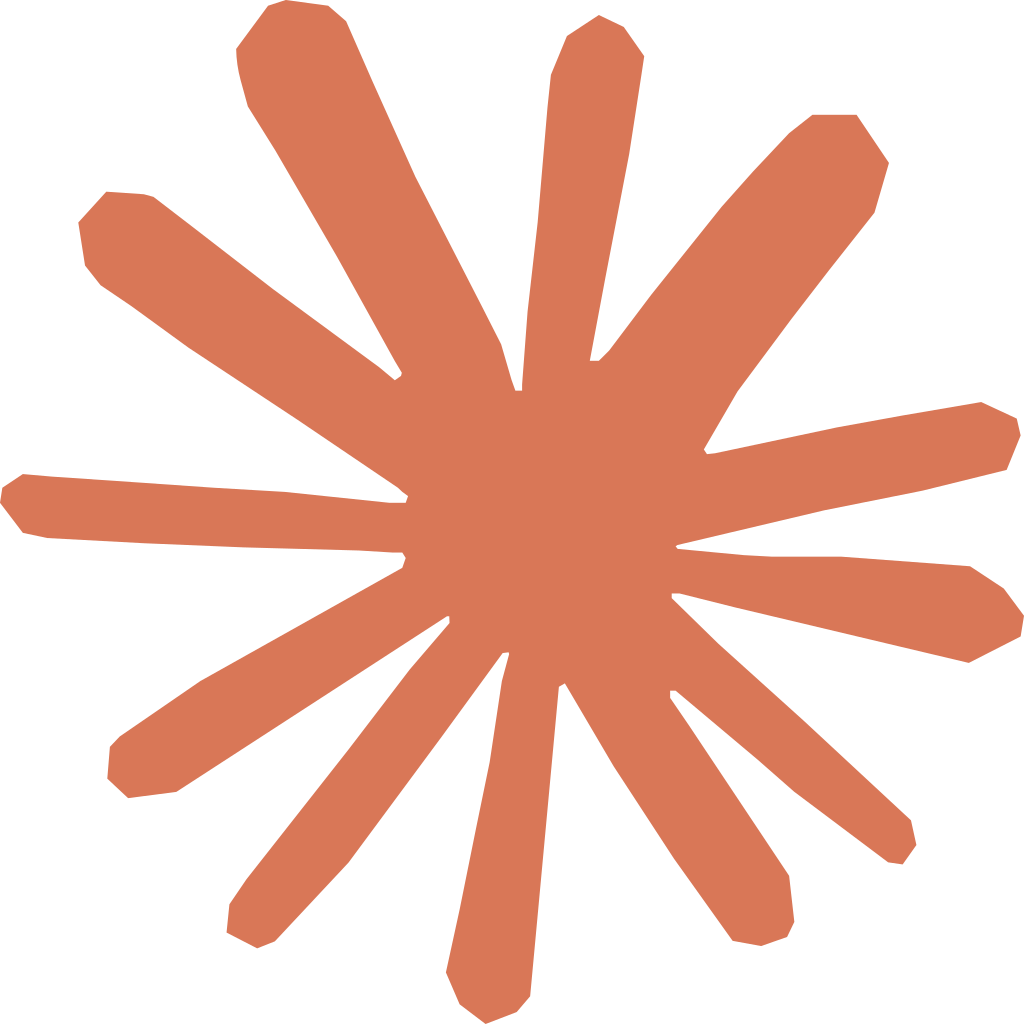
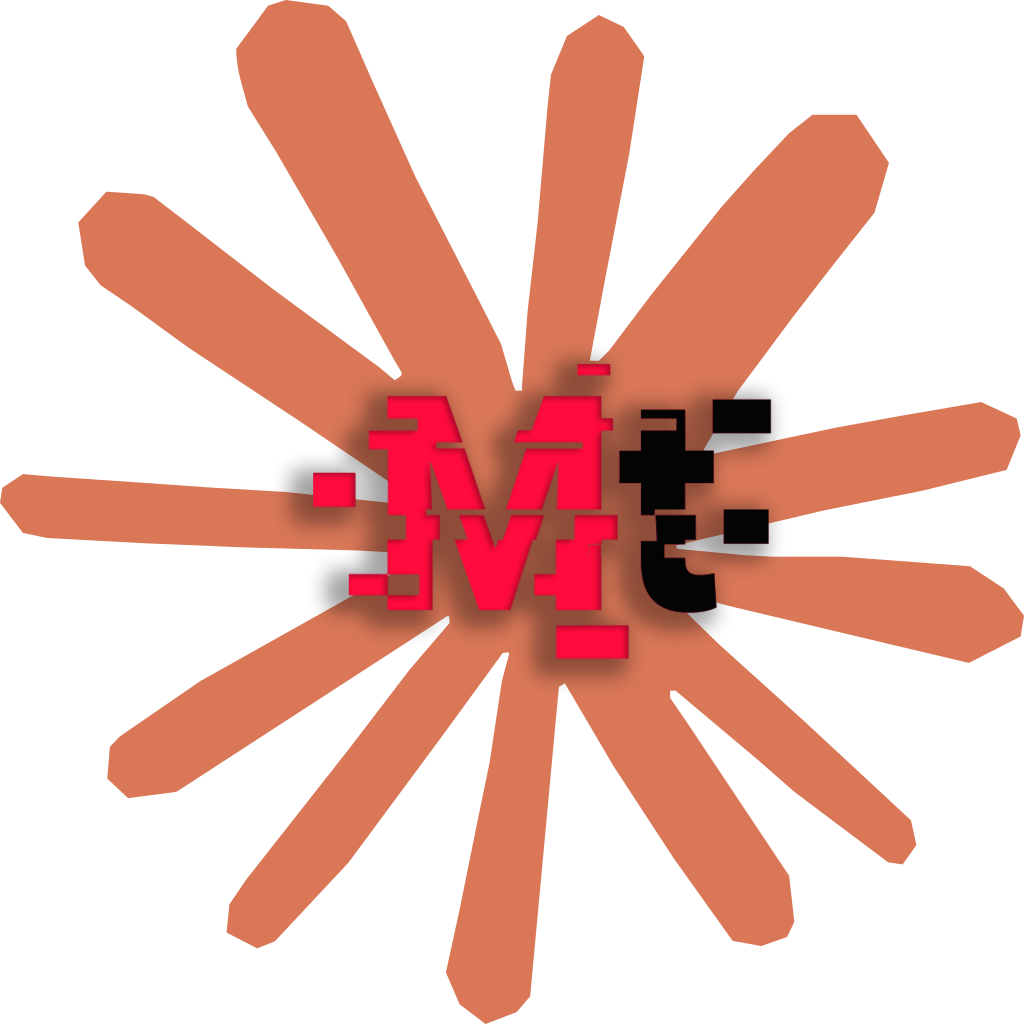
docs: rebrand to Claude Usage Bars — README, changelog, marketplace metadata
- positioning: most customizable Claude usage indicator
- new README (styles table, settings reference, credits to upstream)
- CHANGELOG + marketplace keywords/galleryBanner/homepage/bugs
- updated brand icon

Changed region(s): [[0.2812, 0.3438, 0.7812, 0.6875]]

diff --git a/README.md b/README.md
@@ -1,37 +1,122 @@
-# ✼ Claude Usage Status Bar
+<p align="center">
+  <img src="resources/claude-color.png" width="120" alt="Claude Usage Bars" />
+</p>
 
-No more hitting usage limits mid-flow. See your Claude Code current session and weekly limits directly in the VS Code status bar.
+<h1 align="center">Claude Usage Bars</h1>
 
-![Status bar showing ✼ 45% · 23%](resources/screenshot.png)
+<p align="center"><b>The most customizable Claude Code usage indicator for VS Code.</b></p>
 
-## What it does
+<p align="center">
+  <a href="https://marketplace.visualstudio.com/items?itemName=mtglitch.claude-usage-bars"><img src="https://img.shields.io/visual-studio-marketplace/v/mtglitch.claude-usage-bars?color=cc6644&label=Marketplace" alt="Marketplace Version" /></a>
+  <a href="https://marketplace.visualstudio.com/items?itemName=mtglitch.claude-usage-bars"><img src="https://img.shields.io/visual-studio-marketplace/i/mtglitch.claude-usage-bars?color=cc6644" alt="Installs" /></a>
+  <a href="https://marketplace.visualstudio.com/items?itemName=mtglitch.claude-usage-bars"><img src="https://img.shields.io/visual-studio-marketplace/r/mtglitch.claude-usage-bars?color=cc6644" alt="Rating" /></a>
+  <a href="LICENSE.md"><img src="https://img.shields.io/badge/license-MIT-yellow.svg" alt="License: MIT" /></a>
+</p>
 
-Sits in your status bar showing real-time utilization across your 5-hour session, 7-day, Opus, and Apps windows. Click it for the full breakdown: progress bars, reset countdowns, account info, the whole thing.
+No more hitting usage limits mid-flow. See your Claude Code session and weekly limits right in the VS Code status bar — and make them look exactly how you want.
 
-## Settings
+![Status bar showing usage](resources/screenshot.png)
+
+## What's new in this fork
+
+A heavily extended fork of [`jjsmackay/claude-usage-vscode`](https://github.com/jjsmackay/claude-usage-vscode). On top of the original status bar indicator, it adds:
+
+- **13 render styles** — ASCII, Unicode bars, vertical meters, and crisp codicon meters.
+- **A live settings panel** — pick a style and tune everything with an instant preview, no JSON editing.
+- **Per-window styles** — render the session and weekly bars in *different* styles.
+- **Custom colors** — warn/critical thresholds with your own hex colors.
+- **Burn-rate analytics** — a 24-hour sparkline, consumption rate, and an ETA to the limit.
+- **Graceful rate-limit handling** — a clear `429` state with automatic backoff.
+
+## Features
+
+### Styles
+
+Choose how usage is rendered. `{p}` is the percentage; in **Both** mode, bar styles draw a separate bar for the session and weekly limits.
+
+| Group | Style | Example |
+| ----- | ----- | ------- |
+| ASCII | `percent` | `✼ 45%` |
+| ASCII | `dual` | `✼ 45% · 23%` |
+| ASCII | `dots` | `✼ ●●●●●○○○○○ 45%` |
+| ASCII | `brackets` | `✼ [####······] 45%` |
+| ASCII | `minimal` | `45%` |
+| Graphic | `blocks` | `✼ ▰▰▰▰▱▱▱▱ 45%` |
+| Graphic | `braille` | `✼ ⣿⣿⣦⣀ 45%` |
+| Graphic | `gradient` | `✼ ▓▓▓▓░░░░ 45%` |
+| Vertical | `vmeter` | `✼ ▆ 45%` |
+| Vertical | `vtwin` | `✼ ▆▃ 45·23` |
+| Vertical | `vgauge` | `✼ ███▄▁▁▁▁ 45%` |
+| Icon | `iconmeter` | vector circle meter (codicons) |
+| Icon | `iconsmall` | vector circle meter, smaller |
+
+Bar length is configurable from 4 to 40 segments.
+
+### Settings panel
+
+Click the status bar item (or run **Claude Usage: Open Appearance Settings**) to open a panel with:
+
+- a live gallery of every style,
+- the selected style previewed at 15 / 30 / 40 / 60 / 80 / 95%,
+- color pickers and threshold controls,
+
+…all applied to the status bar instantly as you change them.
+
+### Colors
+
+Tint the indicator as usage climbs. Set **warn** and **critical** thresholds, and optionally your own hex colors for the normal / warn / critical states. Coloring can be turned off entirely.
+
+### Analytics
+
+Hover the status bar for the full breakdown — session (5h), weekly (7d), Opus, and Apps windows with progress bars and reset countdowns — plus an **Analytics** section: a sparkline of session usage over the last 24 hours, the current burn rate (`%/h`), and an estimated time to 100%.
+
+### Resilience
+
+When the Claude API rate-limits requests, the status bar shows a clear `🕐 429` state (instead of a raw error) and automatically backs off using the server's `Retry-After` hint.
+
+## Settings reference
 
 | Setting | Default | Description |
-| ------- | ------- | ------------|
-| Update Interval    | `300`   | How often to poll for usage, in seconds |
-| Status Bar Display | `Both`  | Which usage stat to display: `Session`, `Weekly` or `Both` |
-| Show Notifications | `False` | Get pinged when any window hits 90% |
+| ------- | ------- | ----------- |
+| `claudeUsage.statusBarStyle` | `vgauge` | Main render style (session). |
+| `claudeUsage.statusBarStyleWeekly` | `vmeter` | Style for the weekly bar in **Both** mode (`same` = match main). |
+| `claudeUsage.statusBarDisplay` | `both` | Which window(s) to show: `session`, `weekly`, `highest`, `both`. |
+| `claudeUsage.statusBarIcon` | `✼` | Leading icon (empty to hide). |
+| `claudeUsage.barLength` | `8` | Bar segments for bar styles (4–40). |
+| `claudeUsage.colorEnabled` | `true` | Tint the indicator by usage. |
+| `claudeUsage.warnThreshold` | `75` | Percent at which it turns to the warn color. |
+| `claudeUsage.critThreshold` | `90` | Percent at which it turns to the critical color. |
+| `claudeUsage.normalColor` | _theme_ | Custom hex for normal usage. |
+| `claudeUsage.warnColor` | _theme_ | Custom hex for the warn level. |
+| `claudeUsage.critColor` | _theme_ | Custom hex for the critical level. |
+| `claudeUsage.updateInterval` | `300` | How often to poll for usage, in seconds. |
+| `claudeUsage.showNotifications` | `false` | Get pinged when any window hits 90%. |
+
+## Install
+
+From the VS Code Marketplace: search **Claude Usage Bars**, or:
+
+```
+code --install-extension mtglitch.claude-usage-bars
+```
 
 ## Authentication
 
-The extension reads your existing Claude Code credentials, no separate login needed.
+The extension reads your existing Claude Code credentials — no separate login.
 
-**macOS:** reads the OAuth token directly from your system Keychain (added by Claude Code on login).
+- **macOS:** reads the OAuth token from your system Keychain (added by Claude Code on login).
+- **Linux:** reads from `~/.claude/.credentials.json`.
 
-**Linux:** reads from `~/.claude/.credentials.json`.
-
-User info (name, email, subscription type) is pulled from `~/.claude.json`.
-
-If the status bar shows an auth error, re-run `claude` in your terminal to refresh your credentials, then reload the VS Code window.
+User info (name, email, subscription type) comes from `~/.claude.json`. If the status bar shows an auth error, re-run `claude` in your terminal to refresh your credentials, then reload the VS Code window.
 
 ## Requirements
 
-VS Code 1.74.0+, active Claude Code subscription.
+VS Code 1.74.0+ and an active Claude Code subscription.
+
+## Credits
+
+Forked from [`jjsmackay/claude-usage-vscode`](https://github.com/jjsmackay/claude-usage-vscode) by [Jonathan Mackay](https://github.com/jjsmackay). Maintained and extended by [mtglitch](https://github.com/EloWeld).
 
 ## License
 
-MIT - [Jonathan Mackay](https://github.com/jjsmackay)
+MIT

diff --git a/CHANGELOG.md b/CHANGELOG.md
@@ -1,0 +1,33 @@
+# Changelog
+
+All notable changes to **Claude Usage Bars** are documented here.
+The format is based on [Keep a Changelog](https://keepachangelog.com/).
+
+## [0.3.1] — 2026-06-14
+
+### Changed
+
+- Rebranded to **Claude Usage Bars**: rewritten README, new icon, changelog, and Marketplace metadata (description, keywords, gallery banner). No functional changes.
+
+## [0.3.0] — 2026-06-14
+
+First release of the fork ([`mtglitch.claude-usage-bars`](https://marketplace.visualstudio.com/items?itemName=mtglitch.claude-usage-bars)), forked from [`jjsmackay/claude-usage-vscode`](https://github.com/jjsmackay/claude-usage-vscode) `0.2.0`.
+
+### Added
+
+- **13 status bar render styles** across four groups: ASCII (`percent`, `dual`, `dots`, `brackets`, `minimal`), graphic Unicode bars (`blocks`, `braille`, `gradient`), vertical meters (`vmeter`, `vtwin`, `vgauge`), and codicon vector meters (`iconmeter`, `iconsmall`).
+- **Appearance settings panel** (webview) with a live style gallery, a multi-percent preview strip (15/30/40/60/80/95%), color pickers, and instant apply. Opens on status bar click or via *Claude Usage: Open Appearance Settings*.
+- **Per-window styles** — render the session and weekly bars in different styles in *Both* mode (`statusBarStyleWeekly`).
+- **Configurable colors** — `warnThreshold` / `critThreshold` plus custom hex colors for normal / warn / critical states (`normalColor`, `warnColor`, `critColor`, `colorEnabled`).
+- **Configurable bar length** (4–40) and **custom leading icon**.
+- **Usage analytics** — a 24-hour session sparkline, burn rate (`%/h`), and an ETA to the limit, shown in the tooltip.
+- **Rate-limit handling** — a dedicated `429` status with `Retry-After` backoff instead of a raw error.
+
+### Changed
+
+- Default style is now `vgauge` (session) with `vmeter` for the weekly bar.
+- Settings link in the tooltip opens the new appearance panel.
+
+## [0.2.0] — upstream baseline
+
+See the original project: [`jjsmackay/claude-usage-vscode`](https://github.com/jjsmackay/claude-usage-vscode).